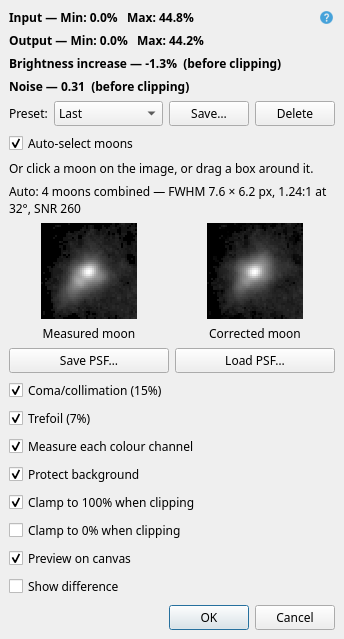
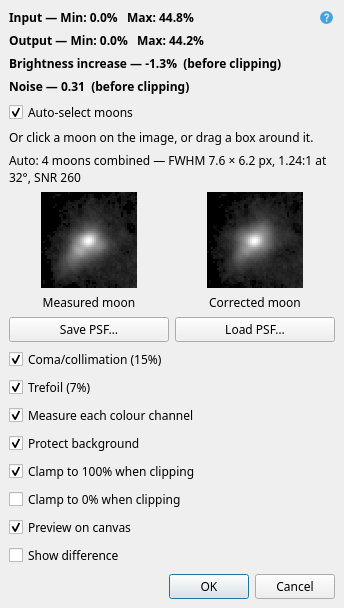
Remove presets from Correct Optical Aberrations
Save PSF and Load PSF carry a measurement between captures, so the
panel needs no preset row. This undoes 1c87647, which kept presets but
left the PSF out of them. Panels without presets also start with Clamp
to 0% available when Clamp to 100% is ticked, as preset panels do.

diff --git a/planetary-app/tests/test_optical_correction.py b/planetary-app/tests/test_optical_correction.py
@@ -486,7 +486,7 @@ class FilterTests(unittest.TestCase):
         self.assertEqual(fdef.label, 'Correct Optical Aberrations')
         step = PipelineStep('optical_correction', dict(fdef.default_params))
         self.assertTrue(step.label.endswith('Auto'))
-        self.assertNotIn('psf', fdef.default_params)
+        self.assertIsNone(fdef.default_params['psf'])
         saved = oc.psf_to_dict(oc.measure_image_psf(scene(), True), 'moons.png')
         step = PipelineStep('optical_correction', {**fdef.default_params, 'psf': saved})
         self.assertTrue(step.label.endswith('Saved PSF (moons.png)'))
@@ -523,6 +523,8 @@ class PanelTests(unittest.TestCase):
         panel, markers = self.panel()
         self.assertTrue(panel.moon_info.text().startswith('Auto:'))
         self.assertIsNotNone(panel.measured_view.pixmap())
+        # No preset row: Save PSF and Load PSF carry a measurement instead.
+        self.assertFalse(hasattr(panel, '_preset_combo'))
         self.assertIn(MOON, [(round(x), round(y)) for x, y, _ in markers[-1]])
         self.assertRegex(panel._aberration_boxes['coma'].text(), r'Coma/collimation \(\d+%\)')
         # Astigmatism is not offered (switched off), nor its controls.
@@ -598,20 +600,12 @@ class PanelTests(unittest.TestCase):
         self.assertEqual(params['psf']['source'], 'moons.png')
         apply_filter('optical_correction', np.repeat(scene(moons=False)[..., None], 3, axis=2),
                      True, params)
-        # Presets and "Last" never keep the PSF, and choosing one keeps it loaded.
-        lone.save_last_preset()
-        self.assertNotIn('psf', lone._presets['Last'])
-        with patch('planetary_tools.ui.dialogs.QInputDialog.getText', lambda *a: ('Mine', True)):
-            lone._save_preset()
-        self.assertNotIn('psf', lone._presets['Mine'])
-        lone._preset_combo.setCurrentText('Default')
-        self.assertTrue(lone.moon_info.text().startswith('Saved PSF'))
-        self.assertFalse(lone.get_params()['auto'])
-        self.assertEqual(lone.get_params()['psf']['source'], 'moons.png')
+        # Reopened with those params, the panel uses the saved PSF again.
         again = OpticalCorrectionDialog(True)
         self.addCleanup(again.close)
         again.set_input_brightness(np.repeat(scene(moons=False)[..., None], 3, axis=2), True)
-        self.assertIsNone(again.get_params()['psf'])
+        again.set_params(params)
+        self.assertTrue(again.moon_info.text().startswith('Saved PSF'))
         # Ticking Auto measures the image's own moons again.
         lone.auto.setChecked(True)
         self.assertIsNone(lone.get_params()['psf'])
@@ -660,7 +654,7 @@ class PanelTests(unittest.TestCase):
         self.assertEqual(edit(with_psf, look)['psf'], saved)
         self.assertEqual(seen, [('Use saved PSF from moons.png', [False])])
         self.assertIsNone(edit(with_psf, lambda d: use_box(d)[0].setChecked(False))['psf'])
-        self.assertNotIn('psf', edit(dict(fdef.default_params), lambda d: None))
+
 
     def test_tools_menu_runs_with_canvas_picking(self):
         window = MainWindow()

diff --git a/planetary-app/planetary_tools/ui/dialogs.py b/planetary-app/planetary_tools/ui/dialogs.py
@@ -298,7 +298,8 @@ class _FilterDialog(QWidget):
 
             self.clamp_low = QCheckBox("Clamp to 0% when clipping")
             self.clamp_low.setChecked(False)
-            self.clamp_low.setEnabled(False)
+            # Follows Clamp to 100%, which starts ticked.
+            self.clamp_low.setEnabled(self.clamp_channels.isChecked())
             self.clamp_low.setToolTip(
                 "When clamping highlights to 100%, scale the darkest channel "
                 "value to 0% instead of preserving the black point. While "
@@ -435,7 +436,7 @@ class _FilterDialog(QWidget):
             QMessageBox.warning(self, "Save Preset", f'"{name}" is a reserved preset name.')
             return
         is_new = name not in self._presets
-        self._presets[name] = self.preset_params()
+        self._presets[name] = self.get_params()
         save_presets(self.filter_id, self._presets)
         if is_new:
             self._preset_combo.addItem(name)
@@ -453,20 +454,16 @@ class _FilterDialog(QWidget):
         self._preset_combo.removeItem(self._preset_combo.currentIndex())
         self._set_combo_to("Last")
 
-    def preset_params(self) -> dict[str, Any]:
-        """The params a preset (or "Last") keeps; by default all of them."""
-        return self.get_params()
-
     def save_last_preset(self) -> None:
         if not self.filter_id:
             return
         if self.supports_presets:
-            self._presets["Last"] = self.preset_params()
+            self._presets["Last"] = self.get_params()
             save_presets(self.filter_id, self._presets)
         elif FILTERS[self.filter_id].batch_enabled:
             # No preset menu, but batch steps still start from the last values.
             fdef = FILTERS[self.filter_id]
-            save_last_params(self.filter_id, fdef.default_params, self.preset_params())
+            save_last_params(self.filter_id, fdef.default_params, self.get_params())
 
     def set_input_brightness(
         self,

diff --git a/planetary-app/planetary_tools/ui/optical_correction_dialog.py b/planetary-app/planetary_tools/ui/optical_correction_dialog.py
@@ -39,7 +39,8 @@ def _psf_pixmap(psf: np.ndarray, size: int = _THUMB_PX) -> QPixmap:
 
 class OpticalCorrectionDialog(_FilterDialog):
     filter_id = "optical_correction"
-    supports_presets = True
+    # No presets: Save PSF and Load PSF carry a measurement between captures.
+    supports_presets = False
     supports_clamp = True
     supports_difference = True
     # MainWindow connects canvas clicks/boxes and the moon markers.
@@ -410,14 +411,7 @@ class OpticalCorrectionDialog(_FilterDialog):
         })
         return params
 
-    def preset_params(self) -> dict[str, Any]:
-        """A loaded PSF belongs to the session, not to presets or "Last"."""
-        params = self.get_params()
-        params.pop("psf", None)
-        return params
-
     def set_params(self, params: dict[str, Any]) -> None:
-        """Apply a preset; it leaves a loaded PSF as it is."""
         super().set_params(params)
         defaults = FILTERS[self.filter_id].default_params
         boxes = [(self.auto, "auto"), (self.per_channel, "per_channel"),
@@ -427,11 +421,10 @@ class OpticalCorrectionDialog(_FilterDialog):
             box.blockSignals(True)
             box.setChecked(bool(params.get(key, defaults[key])))
             box.blockSignals(False)
-        if self._saved is not None:
-            # The loaded PSF replaces the moon choice.
-            self.auto.blockSignals(True)
-            self.auto.setChecked(False)
-            self.auto.blockSignals(False)
         self._moon_x = float(params.get("moon_x", -1.0))
         self._moon_y = float(params.get("moon_y", -1.0))
+        try:
+            self._set_saved(params.get("psf"))
+        except ValueError:
+            self._clear_saved()
         self._update_measurement()

diff --git a/planetary-app/planetary_tools/filters/optical_correction.py b/planetary-app/planetary_tools/filters/optical_correction.py
@@ -85,10 +85,10 @@ DEFAULT_OPTICAL_CORRECTION_PARAMS = {
     # Which aberrations to correct.
     "coma": True,
     "trefoil": True,
+    # A PSF saved from another capture (see psf_to_dict), used instead of
+    # this image's moons: for a planet with no moon in the frame.
+    "psf": None,
 }
-# Params may also hold "psf": a PSF saved from another capture (psf_to_dict),
-# used instead of the image's moons, for a planet with no moon in the frame.
-# It is kept in workflows but never in presets.
 if ASTIGMATISM_ENABLED:
     DEFAULT_OPTICAL_CORRECTION_PARAMS.update({
         # Target PSF size as % of the measured minor axis profile. 100 = round only.

diff --git a/planetary-app/tests/test_batch_last_params.py b/planetary-app/tests/test_batch_last_params.py
@@ -121,9 +121,7 @@ class BatchLastParamsTests(unittest.TestCase):
                 self.assertNotEqual(applied, FILTERS[fid].default_params)
                 panel.save_last_preset()
                 step = self.batch_step_params(fid)
-                # A loaded PSF (Correct Optical Aberrations) is not kept in "Last".
-                kept = panel.preset_params()
-                self.assertEqual({k: step[k] for k in kept}, kept)
+                self.assertEqual({k: step[k] for k in applied}, applied)
 
     def window_with_image(self):
         window = MainWindow()

diff --git a/planetary-app/planetary_tools/filters/registry.py b/planetary-app/planetary_tools/filters/registry.py
@@ -216,7 +216,7 @@ class OpticalCorrectionDef(FilterDef):
     def apply(self, data: np.ndarray, is_grayscale: bool, params: dict[str, Any]) -> np.ndarray:
         return correct_optical_aberrations(data, is_grayscale, psf=params.get("psf"), **{
             key: type(default)(params.get(key, default))
-            for key, default in DEFAULT_OPTICAL_CORRECTION_PARAMS.items()
+            for key, default in DEFAULT_OPTICAL_CORRECTION_PARAMS.items() if key != "psf"
         })
 
 

diff --git a/docs/manual.md b/docs/manual.md
@@ -899,7 +899,7 @@ A capture with no moon in the frame, such as a lone Mars, or a Jupiter with its 
 
 Both captures need the same telescope, camera, Barlow or focal reducer, and camera angle, and neither may be resized or drizzled: the PSF is measured in pixels and its direction on the sensor. Re-collimating, or rotating the camera, needs a new measurement. A planet stack's blur includes the seeing during that capture, so a PSF from the same night suits it best.
 
-Presets do not keep the loaded PSF; load it from its file. Current workflow and a workflow saved with the image (.ptbatch) do keep it, so their batch corrects every image with it. Tick Auto-select moons, or pick a moon, to measure the image's own moons again.
+The panel has no presets; the PSF file is how a measurement is kept. The loaded PSF is kept with the workflow, so a batch, Current workflow or a saved .ptbatch workflow corrects every image with it. Tick Auto-select moons, or pick a moon, to measure the image's own moons again.
 
 ### Colour images
 
